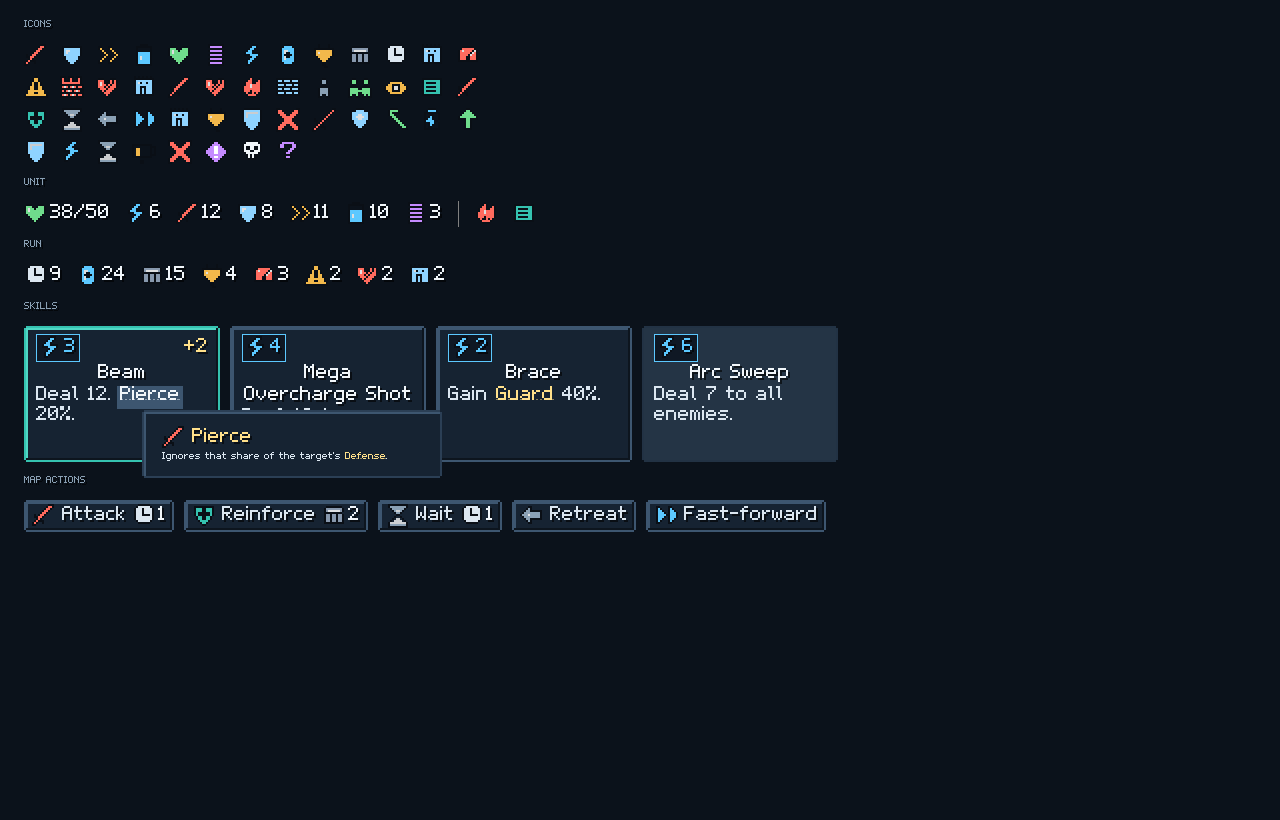
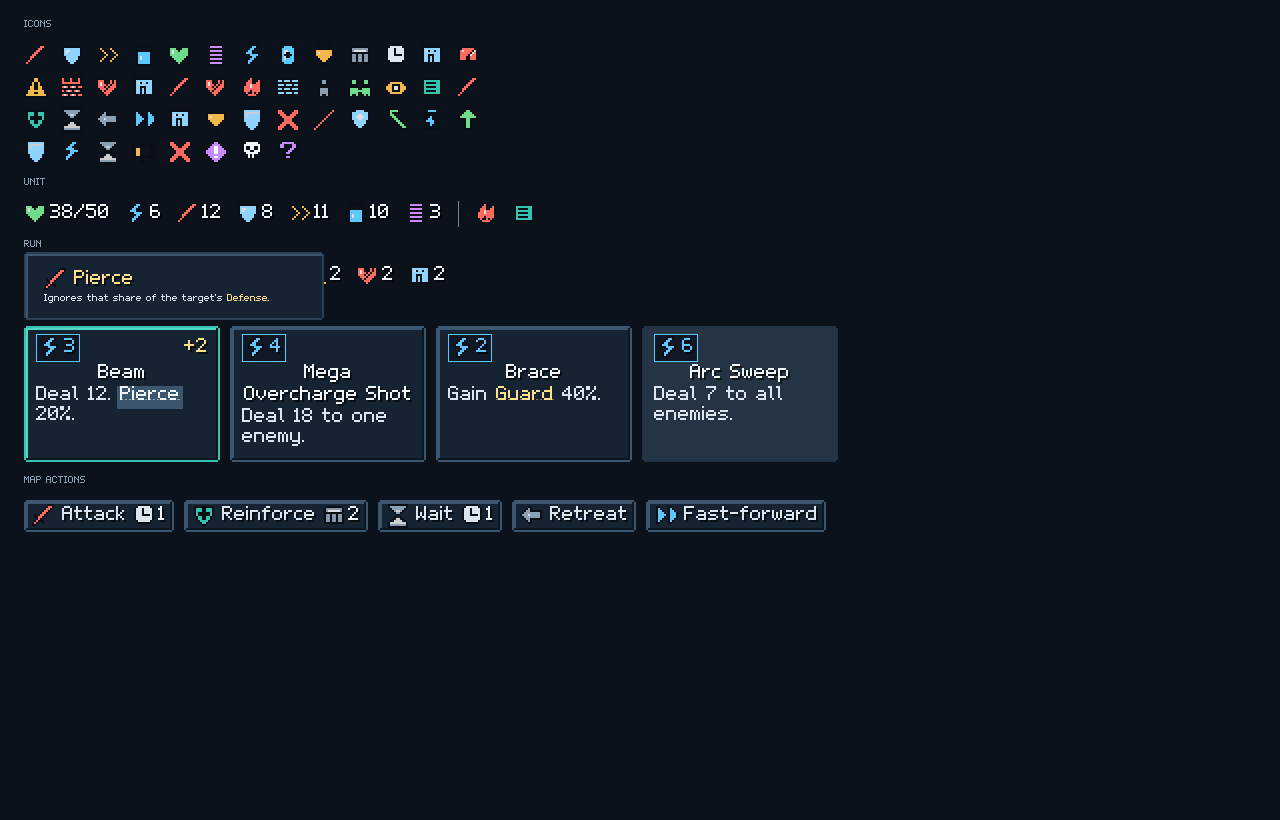
Keyword boxes open beside their card, above the row when neighbours are in the way, never over other cards; chained boxes stack by their parent
Claude-Session: https://claude.ai/code/session_01RzsztNACknrXpHYS2ayQbA

Changed region(s): [[0.0938, 0.4878, 0.3438, 0.5793], [0.0, 0.3049, 0.25, 0.3963]]

diff --git a/ui/README.md b/ui/README.md
@@ -50,6 +50,9 @@ which word a box belongs to:
   a pinned box are links too: hover shows theirs beside it, click pins theirs.
 - Hovering a whole card or tooltip also lists the boxes of every keyword it
   uses.
+- A keyword box never covers other cards' text: it opens beside its card,
+  tooltip or box where there is room, above a card row otherwise (as Slay the
+  Spire does), and stays on screen. A chained box stacks beside its parent box.
 
 Keywords, their aliases (Piercing, Pierces -> Pierce) and definitions live in
 `data/ui/glossary.json`. To show a description, use
